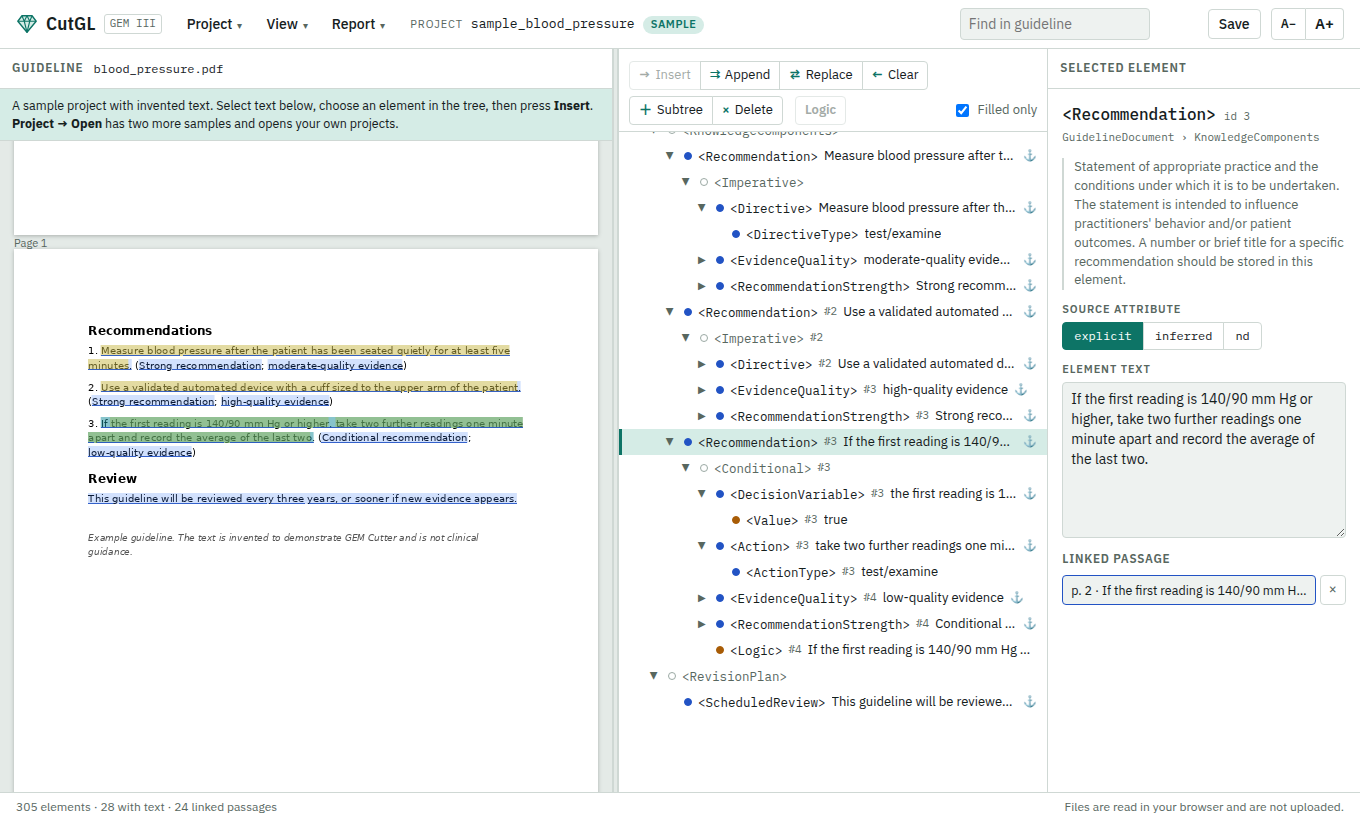
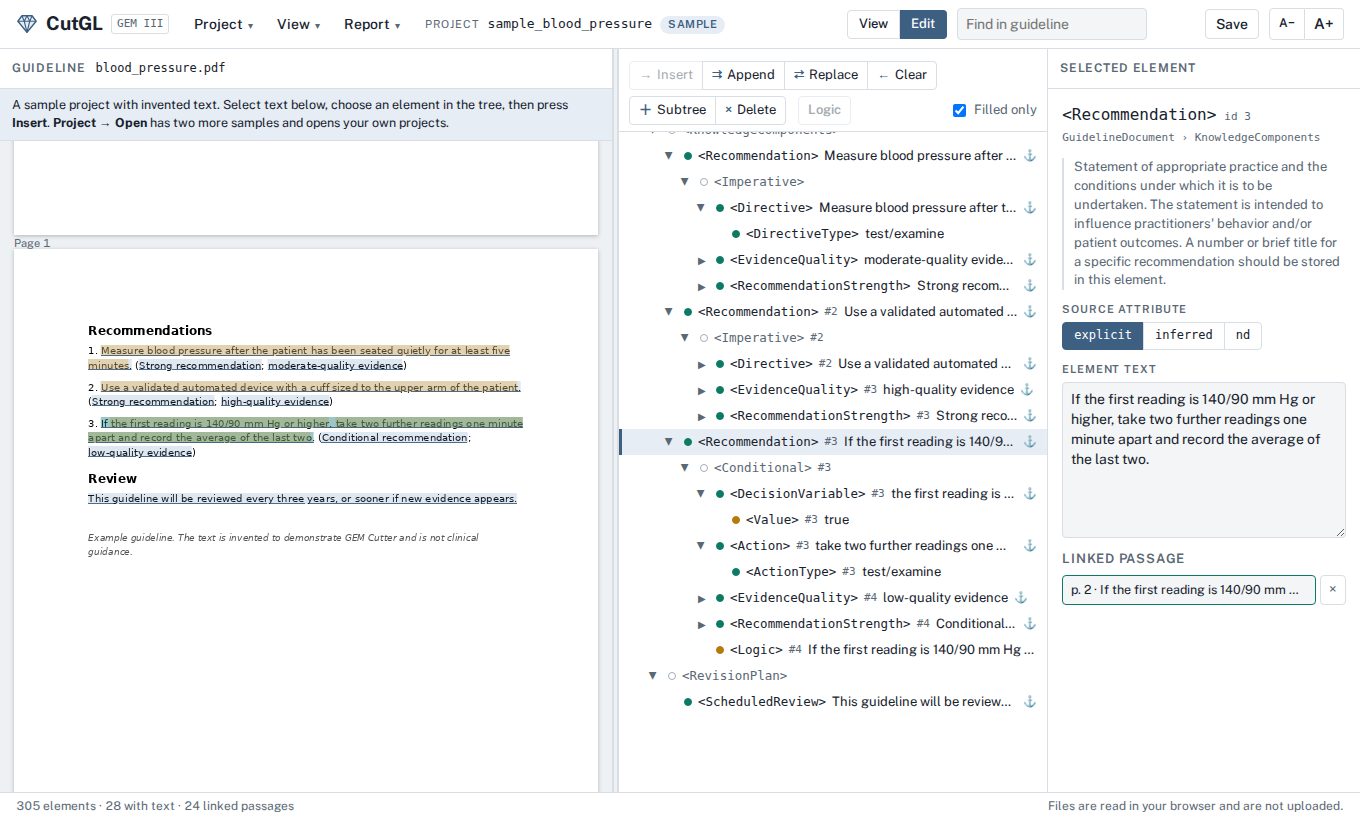
Match GaitScope's look, add a light/dark theme toggle
- Palette and type from GaitScope: slate neutrals, steel-blue accent, teal
  for explicit and amber for inferred text, Public Sans with the system
  monospace. Passage highlights get their own colours in each theme.
- A sun/moon button switches between light and dark. The page starts in the
  theme chosen last, or the system's if none was chosen; the choice is kept
  in the browser and applied before the page draws.
- The README screenshot is taken with the web font.

Claude-Session: https://claude.ai/code/session_016dfYp4FZkd81EvPpv5r8Dz

diff --git a/src/styles.css b/src/styles.css
@@ -1,37 +1,42 @@
 /* Layout: one-screen workbench. Guideline on the left, element tree in the middle, the selected element on the right. */
 :root {
-  --bg: #eef2f0;
-  --surface: #ffffff;
-  --surface-2: #e4eae7;
-  --line: #cfd8d4;
-  --fg: #15201d;
-  --muted: #58675f;
-  --accent: #0d7466;
-  --accent-fg: #ffffff;
-  --accent-soft: #d5ece6;
-  --explicit: #2253c4;
-  --inferred: #a85c06;
-  --nd: #9ba9a4;
-  --danger: #b3261e;
-  --paper: #ffffff;
+  /* The palette of GaitScope (soroushdianaty.com/gaitscope), so the tools read as one family. */
+  --bg: #F3F5F7;
+  --surface: #FFFFFF;
+  --surface-2: #EEF1F4;
+  --line: #D8DEE4;
+  --fg: #17222D;
+  --muted: #5A6774;
+  --accent: #3D5F82;
+  --accent-fg: #FFFFFF;
+  --accent-soft: #E6EDF5;
+  --explicit: #0D7A64;   /* text taken from the guideline */
+  --inferred: #B7790A;   /* text worded by the person marking up */
+  --nd: #A3AEB9;
+  --danger: #B42318;
+  --paper: #FFFFFF;
   --paper-fg: #111111;
-  --shadow: 0 8px 30px rgba(15, 35, 30, .18);
-  --f-display: "IBM Plex Sans Condensed", "Arial Narrow", system-ui, sans-serif;
-  --f-body: "IBM Plex Sans", system-ui, -apple-system, "Segoe UI", sans-serif;
-  --f-mono: "IBM Plex Mono", ui-monospace, "SF Mono", Menlo, Consolas, monospace;
+  --shadow: 0 8px 30px rgba(23, 34, 45, .16);
+  /* passage marks in the guideline */
+  --hl-link: rgba(77, 124, 176, .18); --hl-line: rgba(61, 95, 130, .9); --hl-active: rgba(13, 122, 100, .30); --hl-multi: rgba(227, 169, 59, .34);
+  --f-display: "Public Sans", "Segoe UI", system-ui, -apple-system, Roboto, "Helvetica Neue", Arial, sans-serif;
+  --f-body: var(--f-display);
+  --f-mono: ui-monospace, "SF Mono", "Cascadia Mono", Menlo, Consolas, monospace;
 }
 @media (prefers-color-scheme: dark) {
   :root:not([data-theme="light"]) {
-    --bg: #0f1514; --surface: #171f1d; --surface-2: #212b28; --line: #2f3d39; --fg: #e3ebe8; --muted: #94a39e;
-    --accent: #52c4ae; --accent-fg: #06201b; --accent-soft: #163a33; --explicit: #7ea5ff; --inferred: #e2a251;
-    --nd: #5f6e69; --danger: #ff8a80; --paper: #ffffff; --paper-fg: #111111; --shadow: 0 8px 30px rgba(0, 0, 0, .5);
+    --bg: #10171E; --surface: #172029; --surface-2: #1E2833; --line: #2A3643; --fg: #E4EAF0; --muted: #97A4B1;
+    --accent: #8DB0D6; --accent-fg: #0E1823; --accent-soft: #1C2A38; --explicit: #3DC1A2; --inferred: #E3A93B;
+    --nd: #5B6875; --danger: #F07A6E; --paper: #FFFFFF; --paper-fg: #111111; --shadow: 0 8px 30px rgba(0, 0, 0, .5);
+    --hl-link: rgba(141, 176, 214, .22); --hl-line: rgba(141, 176, 214, .95); --hl-active: rgba(61, 193, 162, .34); --hl-multi: rgba(227, 169, 59, .32);
     color-scheme: dark;
   }
 }
 :root[data-theme="dark"] {
-  --bg: #0f1514; --surface: #171f1d; --surface-2: #212b28; --line: #2f3d39; --fg: #e3ebe8; --muted: #94a39e;
-  --accent: #52c4ae; --accent-fg: #06201b; --accent-soft: #163a33; --explicit: #7ea5ff; --inferred: #e2a251;
-  --nd: #5f6e69; --danger: #ff8a80; --paper: #ffffff; --paper-fg: #111111; --shadow: 0 8px 30px rgba(0, 0, 0, .5);
+  --bg: #10171E; --surface: #172029; --surface-2: #1E2833; --line: #2A3643; --fg: #E4EAF0; --muted: #97A4B1;
+  --accent: #8DB0D6; --accent-fg: #0E1823; --accent-soft: #1C2A38; --explicit: #3DC1A2; --inferred: #E3A93B;
+  --nd: #5B6875; --danger: #F07A6E; --paper: #FFFFFF; --paper-fg: #111111; --shadow: 0 8px 30px rgba(0, 0, 0, .5);
+  --hl-link: rgba(141, 176, 214, .22); --hl-line: rgba(141, 176, 214, .95); --hl-active: rgba(61, 193, 162, .34); --hl-multi: rgba(227, 169, 59, .32);
   color-scheme: dark;
 }
 
@@ -54,7 +59,7 @@ h3 { font-size: 13px; font-weight: 600; letter-spacing: .06em; text-transform: u
 /* ---- top bar ---- */
 .bar { display: flex; flex-wrap: wrap; align-items: center; gap: 6px 14px; padding: 8px 16px; background: var(--surface); border-bottom: 1px solid var(--line); }
 .brand { display: flex; align-items: center; gap: 8px; }
-.brand-name { font-family: var(--f-display); font-weight: 600; font-size: 19px; letter-spacing: .01em; }
+.brand-name { font-family: var(--f-display); font-weight: 700; font-size: 19px; letter-spacing: -.01em; }
 .brand-ver { font-family: var(--f-mono); font-size: 11px; color: var(--muted); border: 1px solid var(--line); border-radius: 3px; padding: 1px 5px; }
 .menus { display: flex; gap: 2px; }
 .menu-wrap { position: relative; }
@@ -82,6 +87,16 @@ h3 { font-size: 13px; font-weight: 600; letter-spacing: .06em; text-transform: u
 /* Viewer mode: the editing tools are put away. */
 body.viewing .tools .tool-group, body.viewing #inLogic { display: none !important; }
 body.viewing .field textarea { background: var(--surface); }
+.theme-btn { display: inline-flex; align-items: center; justify-content: center; width: 32px; height: 30px; padding: 0; background: var(--surface); border: 1px solid var(--line); border-radius: 4px; color: var(--muted); }
+.theme-btn:hover { background: var(--surface-2); color: var(--fg); }
+/* The button shows the theme it switches to: a moon in light, a sun in dark. */
+.theme-btn .i-sun { display: none; }
+:root[data-theme="dark"] .theme-btn .i-sun { display: block; }
+:root[data-theme="dark"] .theme-btn .i-moon { display: none; }
+@media (prefers-color-scheme: dark) {
+  :root:not([data-theme="light"]) .theme-btn .i-sun { display: block; }
+  :root:not([data-theme="light"]) .theme-btn .i-moon { display: none; }
+}
 .zoom { display: flex; }
 .zoom button { background: var(--surface); border: 1px solid var(--line); padding: 4px 9px; font-weight: 600; }
 .zoom button:first-child { border-radius: 4px 0 0 4px; font-size: 12px; }
@@ -95,7 +110,7 @@ body.viewing .field textarea { background: var(--surface); }
 .pane.src { background: var(--surface-2); }
 .pane.insp { border-left: 1px solid var(--line); }
 .pane-head { display: flex; align-items: center; gap: 10px; min-height: 40px; padding: 6px 12px; border-bottom: 1px solid var(--line); background: var(--surface); }
-.ph-title { font-family: var(--f-display); font-weight: 600; font-size: 13px; letter-spacing: .07em; text-transform: uppercase; color: var(--muted); }
+.ph-title { font-family: var(--f-display); font-weight: 600; font-size: 12px; letter-spacing: .06em; text-transform: uppercase; color: var(--muted); }
 .ph-sub { font-family: var(--f-mono); font-size: 12px; overflow: hidden; text-overflow: ellipsis; white-space: nowrap; min-width: 0; }
 .split { cursor: col-resize; background: var(--line); position: relative; }
 .split::after { content: ""; position: absolute; inset: 0 2px; background: var(--surface-2); }
@@ -121,10 +136,10 @@ body.viewing .field textarea { background: var(--surface); }
 .empty { padding: 40px 28px; max-width: 34em; }
 .empty p { margin: 0 0 10px; }
 
-/* Passage marks. Translucent on purpose: they sit on white PDF pages and on either theme's text pane. */
-::highlight(gem-link) { background-color: rgba(52, 120, 246, .22); text-decoration: underline; text-decoration-color: rgba(34, 83, 196, .9); }
-::highlight(gem-multi) { background-color: rgba(255, 208, 0, .36); }
-::highlight(gem-active) { background-color: rgba(13, 148, 120, .38); }
+/* Passage marks. Translucent on purpose: they sit on white PDF pages and on either theme's text pane; the colours are set per theme above. */
+::highlight(gem-link) { background-color: var(--hl-link); text-decoration: underline; text-decoration-color: var(--hl-line); }
+::highlight(gem-multi) { background-color: var(--hl-multi); }
+::highlight(gem-active) { background-color: var(--hl-active); }
 ::highlight(gem-pending) { background-color: rgba(120, 120, 120, .42); }
 ::highlight(gem-find) { background-color: rgba(255, 96, 64, .32); text-decoration: underline; text-decoration-color: rgba(214, 40, 20, .95); }
 ::highlight(gem-cur) { background-color: rgba(255, 96, 64, .7); }
@@ -204,7 +219,7 @@ body.viewing .field textarea { background: var(--surface); }
 .btn.slim { padding: 4px 10px; }
 .hint-strip { margin: 0; padding: 7px 12px; font-size: 12.5px; background: var(--accent-soft); color: var(--fg); border-bottom: 1px solid var(--line); }
 .dlg { border: 1px solid var(--line); border-radius: 8px; background: var(--surface); color: var(--fg); box-shadow: var(--shadow); padding: 20px; width: min(460px, calc(100vw - 32px)); max-height: calc(100% - 32px); }
-.dlg::backdrop { background: rgba(10, 20, 18, .5); }
+.dlg::backdrop { background: rgba(16, 23, 30, .5); }
 .dlg.wide { width: min(880px, calc(100vw - 32px)); }
 .dlg.tall { height: min(86vh, 900px); }
 .dlg[open] { display: flex; flex-direction: column; gap: 14px; }
@@ -242,7 +257,7 @@ body.viewing .field textarea { background: var(--surface); }
 .chips .none { cursor: default; color: var(--muted); border-style: dashed; }
 .chips .none:hover { border-color: var(--line); }
 
-.drop { position: fixed; inset: 0; z-index: 60; background: rgba(13, 116, 102, .16); display: flex; align-items: center; justify-content: center; pointer-events: none; }
+.drop { position: fixed; inset: 0; z-index: 60; background: rgba(61, 95, 130, .16); display: flex; align-items: center; justify-content: center; pointer-events: none; }
 .drop div { background: var(--surface); border: 2px dashed var(--accent); border-radius: 10px; padding: 24px 32px; font-family: var(--f-display); font-size: 18px; font-weight: 600; margin: 16px; text-align: center; }
 .toasts { position: fixed; left: 50%; bottom: calc(36px + env(safe-area-inset-bottom, 0px)); transform: translateX(-50%); z-index: 80; display: flex; flex-direction: column; gap: 6px; align-items: center; width: min(520px, calc(100vw - 32px)); pointer-events: none; }
 .toast { background: var(--fg); color: var(--bg); border-radius: 6px; padding: 9px 14px; font-size: 13px; box-shadow: var(--shadow); pointer-events: auto; display: flex; gap: 12px; align-items: center; }

diff --git a/index.html b/index.html
@@ -7,8 +7,12 @@
 <title>CutGL</title>
 <link rel="preconnect" href="https://fonts.googleapis.com">
 <link rel="preconnect" href="https://fonts.gstatic.com" crossorigin>
-<link rel="stylesheet" href="https://fonts.googleapis.com/css2?family=IBM+Plex+Mono:wght@400;500&family=IBM+Plex+Sans:wght@400;500;600&family=IBM+Plex+Sans+Condensed:wght@600&display=swap">
+<link rel="stylesheet" href="https://fonts.googleapis.com/css2?family=Public+Sans:ital,wght@0,400;0,500;0,600;0,700;1,400&display=swap">
 <link rel="stylesheet" href="src/styles.css">
+<script>
+// The theme chosen with the toggle, if any, is applied before the page draws; otherwise the system's is used.
+try { var t = localStorage.getItem('cutgl:theme'); if (t === 'light' || t === 'dark') document.documentElement.dataset.theme = t; } catch (e) { /* storage unavailable */ }
+</script>
 </head>
 <body>
 <div id="app">
@@ -69,6 +73,10 @@
         <button id="zoomOut" title="Smaller guideline text" aria-label="Smaller guideline text">A−</button>
         <button id="zoomIn" title="Larger guideline text" aria-label="Larger guideline text">A+</button>
       </div>
+      <button class="theme-btn" id="themeBtn" type="button" title="Switch theme" aria-label="Switch theme">
+        <svg class="i-moon" viewBox="0 0 24 24" width="17" height="17" aria-hidden="true"><path d="M20 14.5A8 8 0 0 1 9.5 4 8 8 0 1 0 20 14.5z" fill="none" stroke="currentColor" stroke-width="1.8" stroke-linejoin="round"/></svg>
+        <svg class="i-sun" viewBox="0 0 24 24" width="17" height="17" aria-hidden="true"><circle cx="12" cy="12" r="4.2" fill="none" stroke="currentColor" stroke-width="1.8"/><path d="M12 2.5v2.2M12 19.3v2.2M2.5 12h2.2M19.3 12h2.2M5.3 5.3l1.6 1.6M17.1 17.1l1.6 1.6M5.3 18.7l1.6-1.6M17.1 6.9l1.6-1.6" stroke="currentColor" stroke-width="1.8" stroke-linecap="round"/></svg>
+      </button>
     </div>
   </header>
 

diff --git a/tests/viewer.test.js b/tests/viewer.test.js
@@ -76,3 +76,30 @@ test('a link that cannot be loaded says so and the page still opens', async () =
     t.errors.splice(0); // the failure is also logged to the console on purpose
   } finally { await t.close(); }
 });
+
+test('theme: follows the system until the toggle is used, then remembers the choice', async () => {
+  const t = await openPage({ colorScheme: 'dark' });
+  const { page } = t;
+  const look = () => page.evaluate(() => ({
+    attr: document.documentElement.dataset.theme || null,
+    bg: getComputedStyle(document.body).backgroundColor,
+    stored: localStorage.getItem('cutgl:theme'),
+    label: document.getElementById('themeBtn').getAttribute('aria-label'),
+  }));
+  const DARK = 'rgb(16, 23, 30)', LIGHT = 'rgb(243, 245, 247)';
+  try {
+    assert.deepEqual(await look(), { attr: null, bg: DARK, stored: null, label: 'Switch to the light theme' });
+    await page.click('#themeBtn');
+    assert.deepEqual(await look(), { attr: 'light', bg: LIGHT, stored: 'light', label: 'Switch to the dark theme' });
+    // the choice outlasts a reload, although the system is still dark
+    await page.reload();
+    await page.waitForFunction(() => window.CutGL && window.CutGL.S.root);
+    assert.deepEqual(await look(), { attr: 'light', bg: LIGHT, stored: 'light', label: 'Switch to the dark theme' });
+    await page.click('#themeBtn');
+    assert.deepEqual(await look(), { attr: 'dark', bg: DARK, stored: 'dark', label: 'Switch to the light theme' });
+    // the system changing does not override a choice made with the toggle
+    await page.emulateMedia({ colorScheme: 'light' });
+    assert.equal((await look()).bg, DARK);
+    assert.deepEqual(t.errors, []);
+  } finally { await t.close(); }
+});

diff --git a/src/app.js b/src/app.js
@@ -904,6 +904,22 @@
     clearTimeout(saveTimer);
     saveTimer = setTimeout(() => saveLocal(false), 900);
   }
+  // ---- theme: light or dark. Until the toggle is used the system's choice applies; the toggle's choice is remembered.
+  const systemDark = matchMedia('(prefers-color-scheme: dark)');
+  const themeNow = () => document.documentElement.dataset.theme || (systemDark.matches ? 'dark' : 'light');
+  function labelTheme() {
+    const to = themeNow() === 'dark' ? 'light' : 'dark';
+    $('themeBtn').title = 'Switch to the ' + to + ' theme';
+    $('themeBtn').setAttribute('aria-label', 'Switch to the ' + to + ' theme');
+  }
+  $('themeBtn').onclick = () => {
+    const to = themeNow() === 'dark' ? 'light' : 'dark';
+    document.documentElement.dataset.theme = to;
+    lsSet('cutgl:theme', to);
+    labelTheme();
+  };
+  systemDark.addEventListener('change', labelTheme);
+  labelTheme();
   $('zoomIn').onclick = () => setZoom(1.1);
   $('zoomOut').onclick = () => setZoom(1 / 1.1);
 

diff --git a/scripts/make_screenshot.js b/scripts/make_screenshot.js
@@ -4,7 +4,8 @@ const path = require('path');
 const { ROOT, openPage } = require('../tests/harness.js');
 
 (async () => {
-  const t = await openPage({ viewport: { width: 1360, height: 820 } });
+  // the page's web font is let through, so the picture shows the real type
+  const t = await openPage({ viewport: { width: 1360, height: 820 }, routes: [[/fonts\.(googleapis|gstatic)\.com/, (r) => r.continue()]] });
   const { page } = t;
   await page.evaluate(() => window.CutGL.openSample('blood-pressure'));
   await page.click('#filledOnly');
